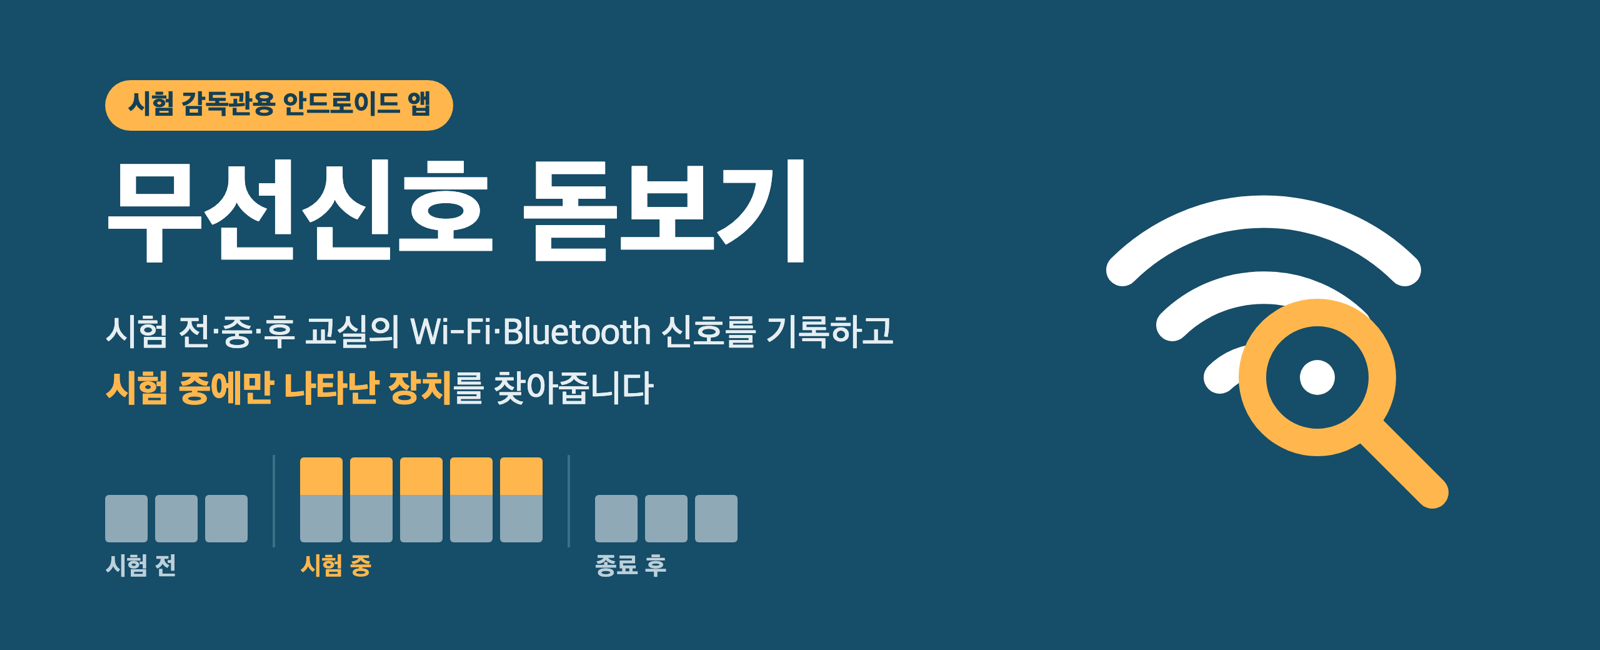
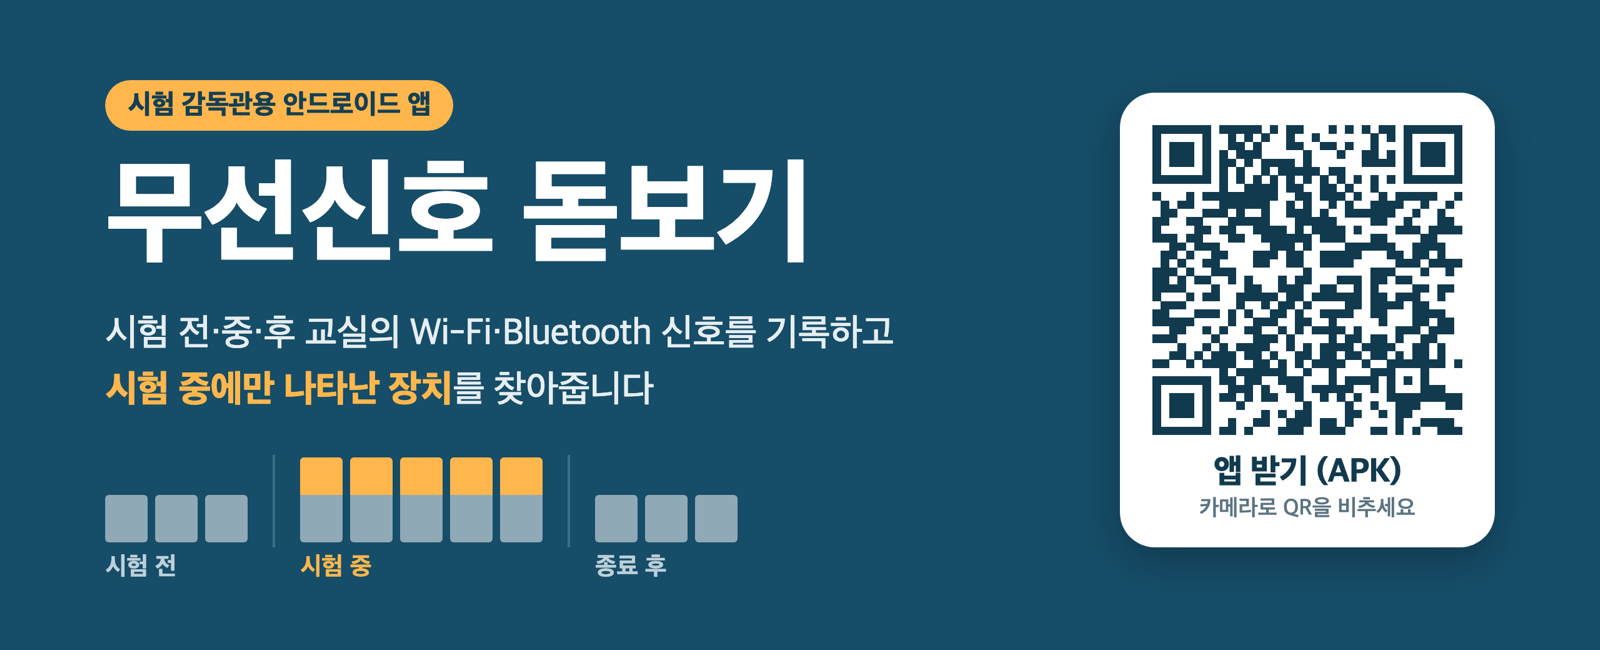
타이틀 이미지에 다운로드 QR 추가

Changed region(s): [[0.6875, 0.1231, 0.9375, 0.8615]]

diff --git a/README.md b/README.md
@@ -1,4 +1,4 @@
-<p align="center"><img src="docs/banner.png" alt="무선신호 돋보기 — 시험 감독관용 안드로이드 앱" width="100%"></p>
+<p align="center"><a href="../../releases/latest/download/SignalLedger.apk"><img src="docs/banner.png" alt="무선신호 돋보기 — 시험 감독관용 안드로이드 앱. 이미지를 누르거나 QR을 비추면 APK를 받습니다." width="100%"></a></p>
 
 # 무선신호 돋보기
 
